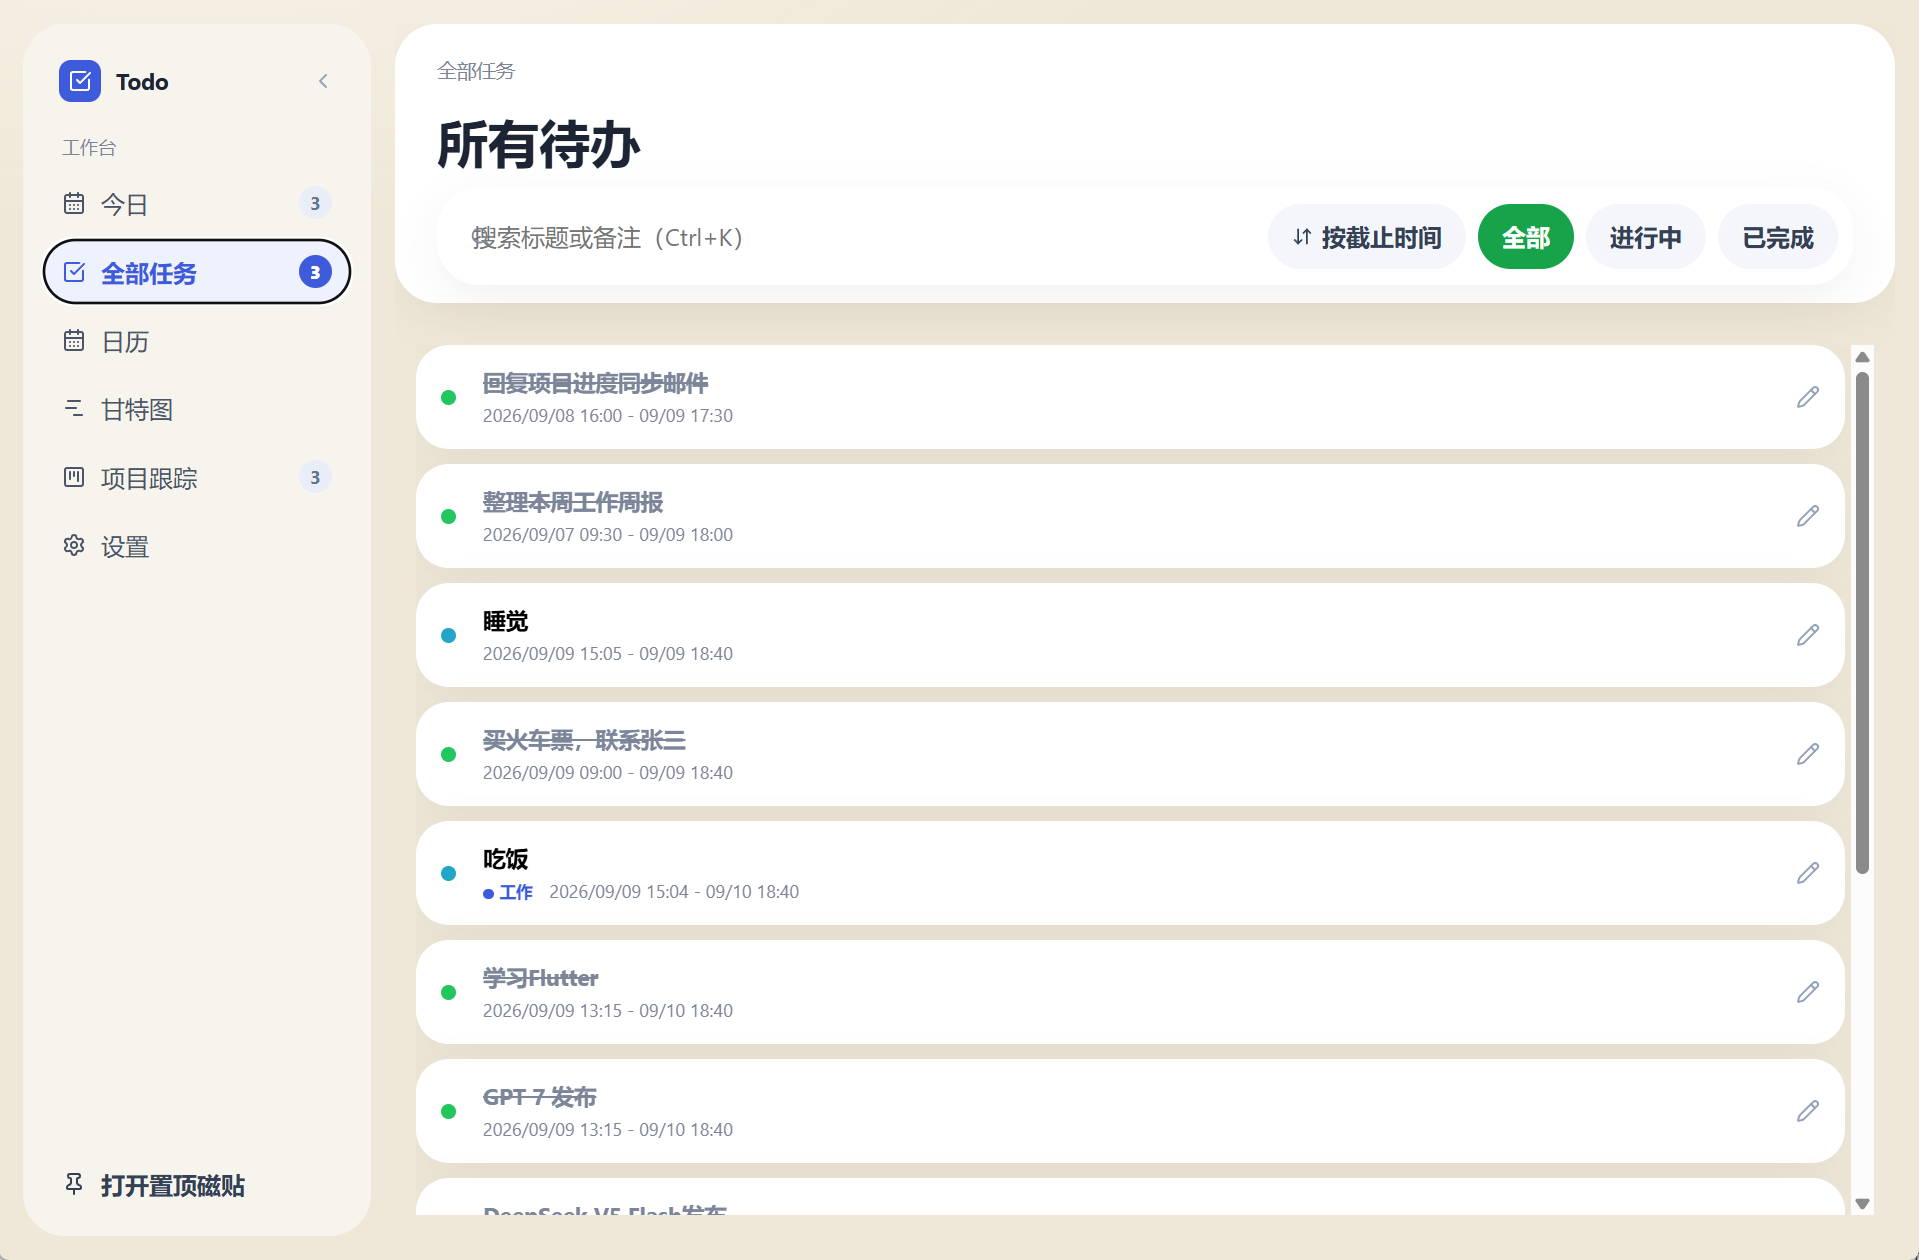
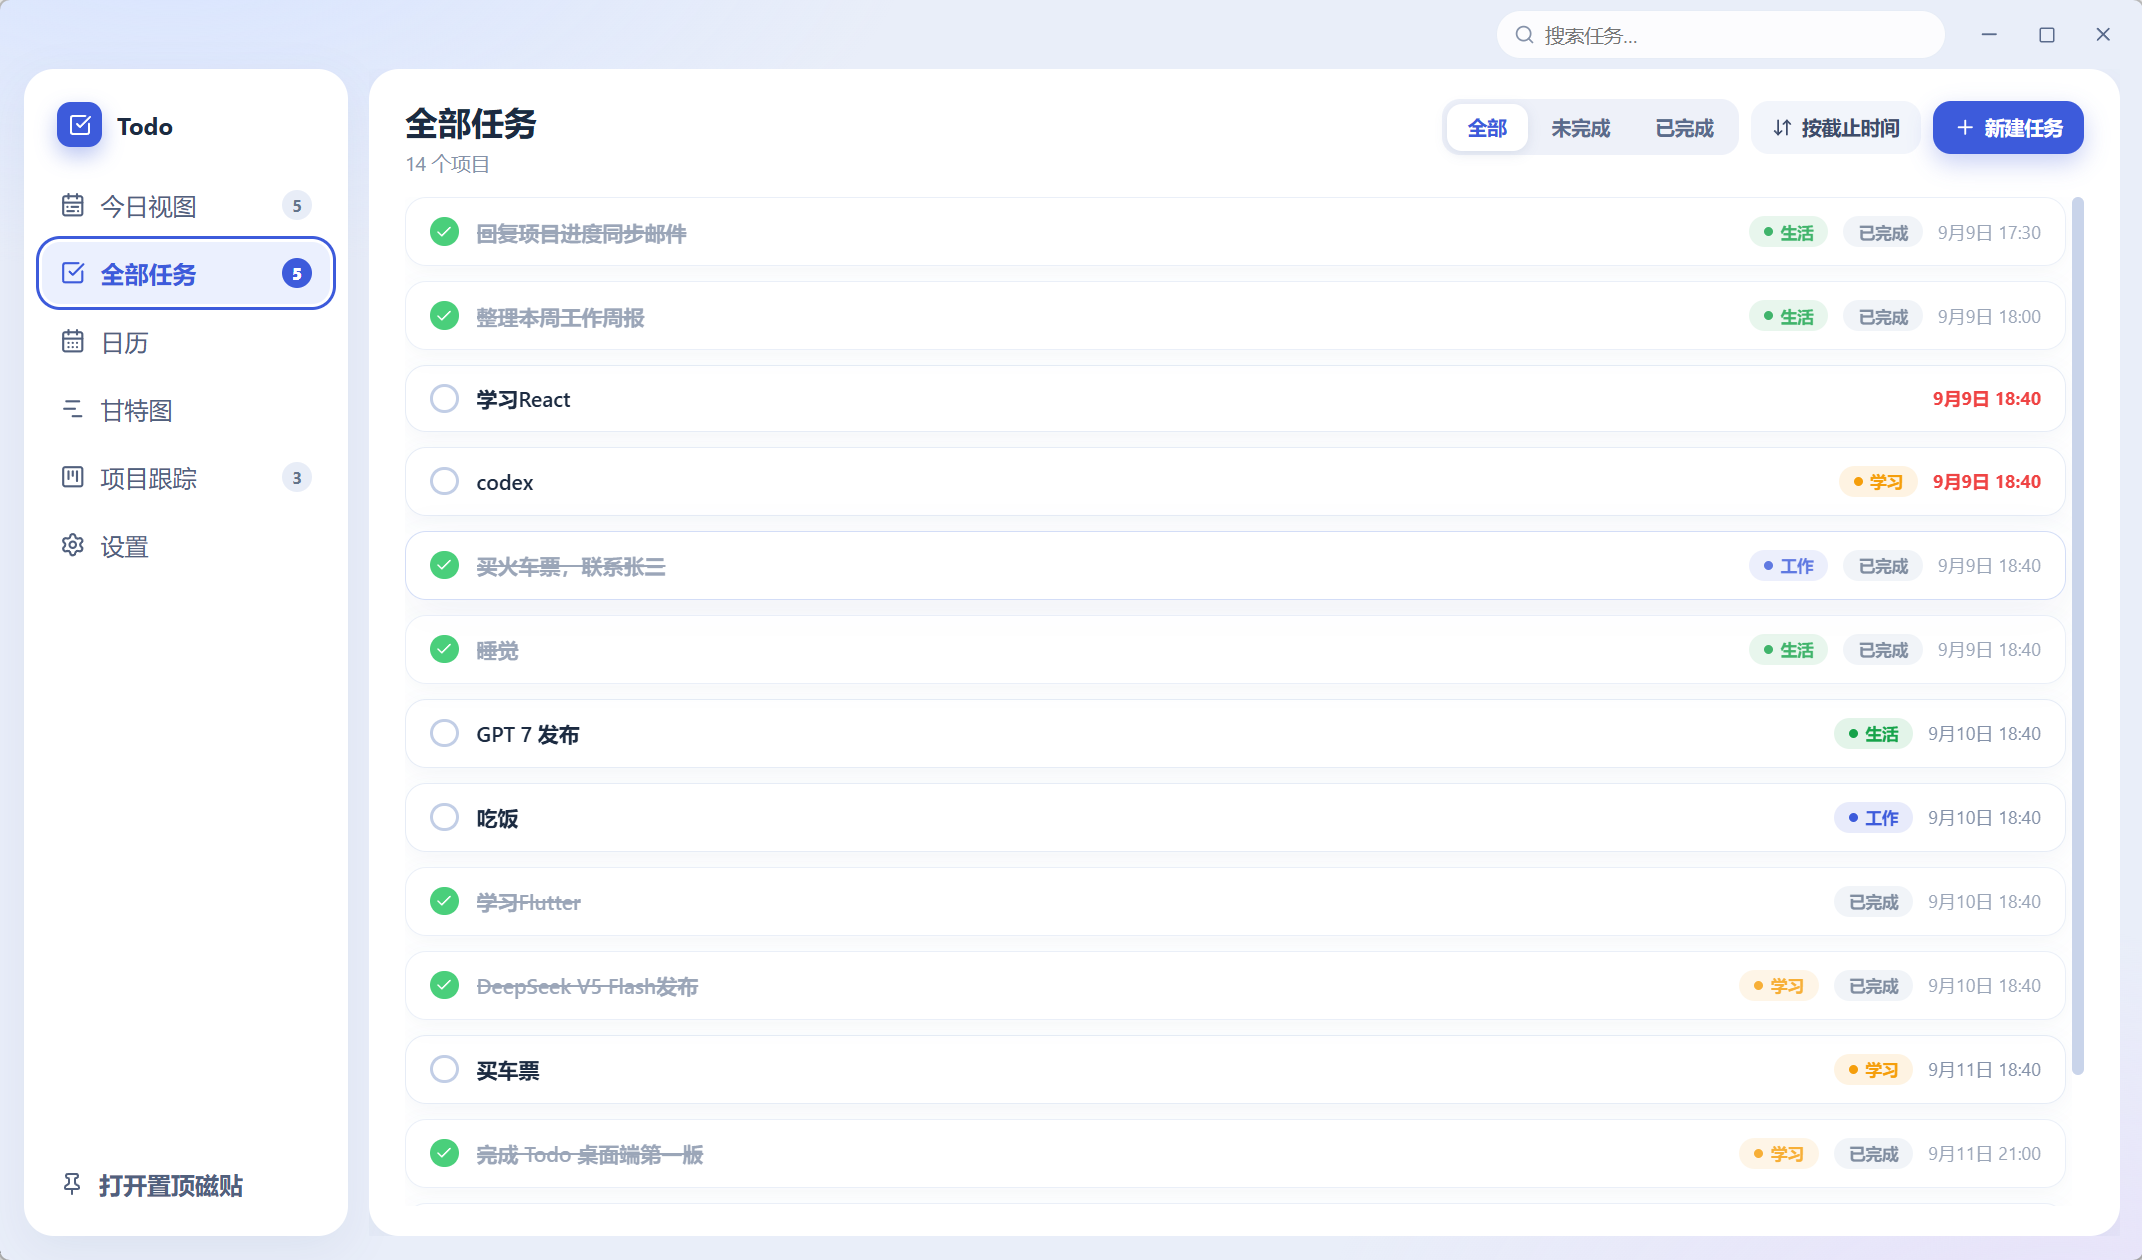
docs: refresh screenshots for the redesigned UI

Changed region(s): [[0.0, 0.0, 1.0, 1.0], [0.6764, 0.0929, 0.7994, 0.1238]]

diff --git a/README.md b/README.md
@@ -2,7 +2,7 @@
 
 # rust-todo
 
-基于 **Tauri 2 + Vue 3 + Rust + SQLite** 的 Windows 桌面待办管理应用（v0.3.2）
+基于 **Tauri 2 + Vue 3 + Rust + SQLite** 的 Windows 桌面待办管理应用（v0.4.0）
 
 [![CI](https://github.com/Elari39/rust-todo/actions/workflows/ci.yml/badge.svg)](https://github.com/Elari39/rust-todo/actions/workflows/ci.yml)
 [![Release](https://img.shields.io/github/v/release/Elari39/rust-todo)](https://github.com/Elari39/rust-todo/releases/latest)
